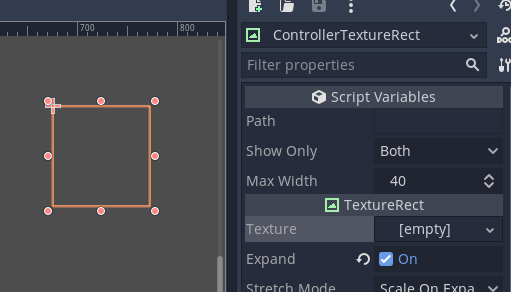
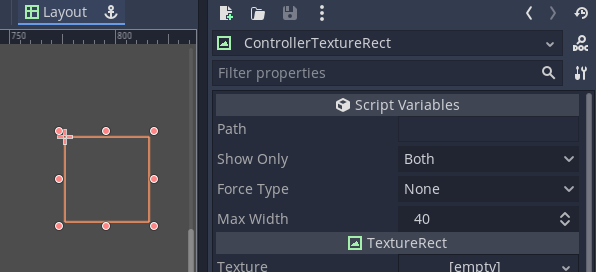
Updated docs and bumped plugin version

diff --git a/DOCS.md b/DOCS.md
@@ -25,6 +25,7 @@ Controller Icons provides various custom node types:
 All of these provide the following properties:
 - `Path`: Specify the controller lookup path
 - `Show Only`: Set the input type this icon will appear on. When set to `Keyboard/Mouse` or `Controller`, the object will hide when the opposite input method is used.
+- `Force Type`: When set to other than `None`, forces the displayed icon to be either `Keyboard/Mouse` or `Controller`. Only relevant for input actions, other types of lookup paths are not affected by this.
 
 ControllerTextureRect has the following additional properties:
 - `Max Width`: Max width for the icon to occupy, in pixels.
@@ -41,7 +42,13 @@ This mode also automatically switches icons when the user either uses keyboard/m
 
 ![](screenshots/docs/input_action.gif)
 
-If you add/remove/change input actions, you need to reload the addon so it can update the input map and show the appropriate mappings in the editor view again. This is not needed in the launched project though.
+If you add/remove/change input actions on the editor, you need to reload the addon so it can update the input map and show the appropriate mappings in the editor view again. This is not needed in the launched project though.
+
+However, if you change input actions at runtime, you must call `refresh` on the `ControllerIcons` singleton to update all existing icons with the new actions:
+
+```gdscript
+ControllerIcons.refresh()
+```
 
 ## Generic joypad path
 
